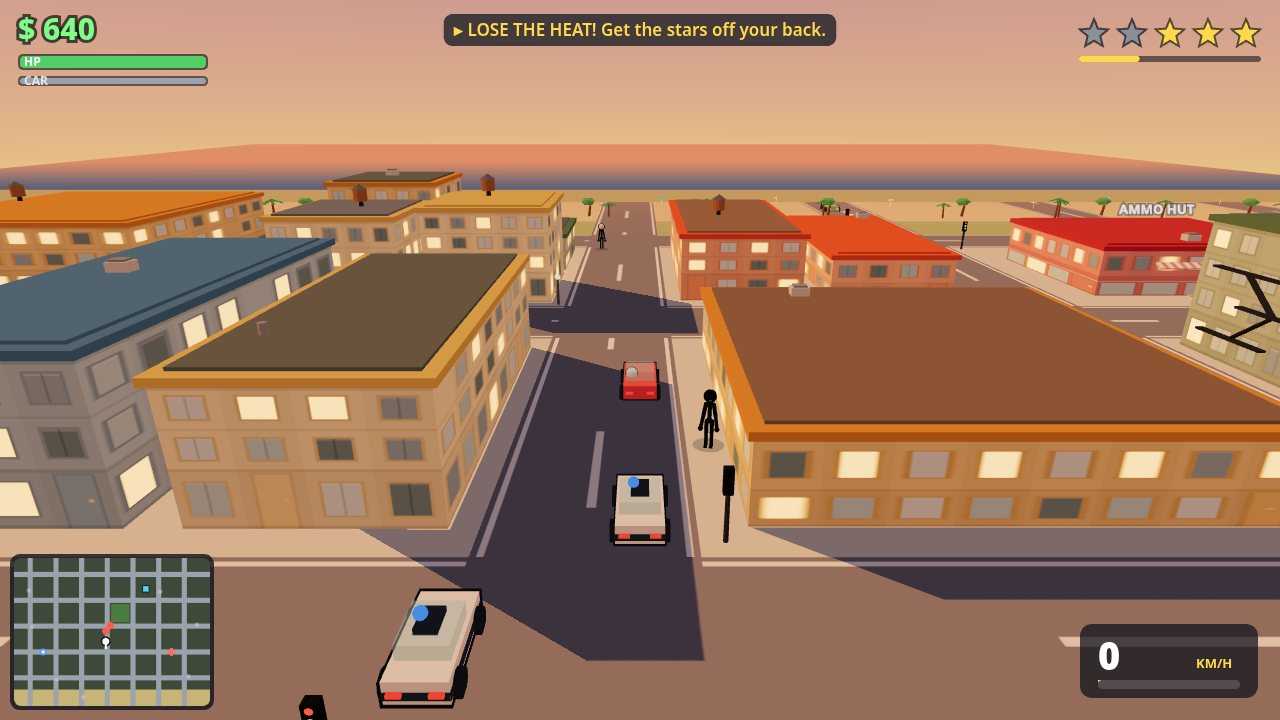
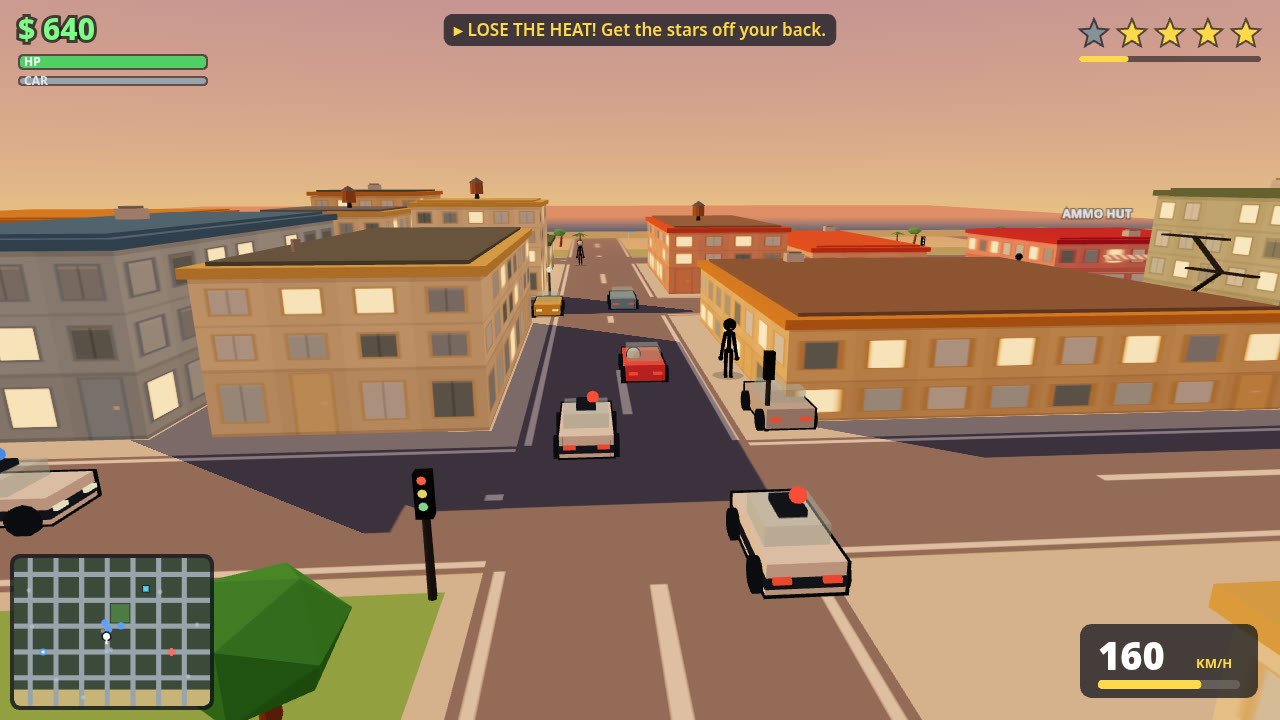
Round 28: judge-oriented screenshot recomposition + heat tuning (cooling gate 1.5s, 22/s, spawn 700-900, sight 380)

diff --git a/game/src/shots.js b/game/src/shots.js
@@ -1,15 +1,14 @@
 // Deterministic screenshot scenes, selected with ?shot=<name>&seed=1. Each scene
 // composes the world the judge should see — a police chase for the cover, a busy
-// street, a mission marker, a fistfight — then freezes movement while the figures
-// keep posing (mid-stride gaits, a punch held at the strike), so a still frame
-// still reads as alive. Movement systems do not run in shot mode; only poses,
-// markers and police lights advance.
+// street, a mission meeting, a burning wreck at golden hour — then freezes
+// movement while the figures keep posing (mid-stride gaits, held expressions),
+// so a still frame still reads as alive. Movement systems do not run in shot
+// mode; only poses, markers and police lights advance.
 import { HEAT_THRESHOLDS } from './config.js';
 import { resolveCircleCollision } from './city.js';
 import { spawnPed, syncFigure } from './people.js';
-import { spawnCar, spawnPoliceCar, syncCarMesh, updatePoliceLights } from './vehicles.js';
+import { spawnCar, spawnPoliceCar, syncCarMesh, updatePoliceLights, wreckCar, updateWrecks } from './vehicles.js';
 import { starsFor } from './police.js';
-import { spawnImpact } from './combat.js';
 
 /** Spawn a bystander for a scene, pushed out of any building it landed inside. */
 function spawnShotPed(g, opts) {
@@ -57,111 +56,130 @@ export function setupShot(g, name) {
   g.saveData.earned = 0;
 
   if (name === 'cover') {
-    // A stolen red car tears south down the avenue with two police cars behind.
-    clearArea(g, 1574, 1350, 620);
-    const hero = spawnCar(g, 'traffic', 1574, 1420, Math.PI / 2, 0xef6461);
+    // A stolen red car tears south down the avenue at four stars: two
+    // cruisers on its tail, a third cutting in from the side street,
+    // traffic scattering ahead. The camera rides low behind the chase
+    // so the pursuit fills the frame instead of surveying it.
+    clearArea(g, 1590, 1300, 640);
+    const hero = spawnCar(g, 'traffic', 1586, 1335, Math.PI / 2, 0xef6461);
     seatPlayer(g, hero);
-    const cop1 = spawnPoliceCar(g, 1574, 1245);
+    // Nothing moves in shot mode, but the speedo reads the car's speed:
+    // let it tell the chase story too.
+    hero.speed = 320;
+    const cop1 = spawnPoliceCar(g, 1622, 1215);
     cop1.angle = Math.PI / 2;
-    const cop2 = spawnPoliceCar(g, 1652, 1150);
+    cop1.speed = 320;
+    const cop2 = spawnPoliceCar(g, 1558, 1105);
     cop2.angle = Math.PI / 2;
+    cop2.speed = 320;
+    const cop3 = spawnPoliceCar(g, 1835, 1155);
+    cop3.angle = Math.PI;
+    cop3.speed = 300;
     syncCarMesh(cop1, 0);
     syncCarMesh(cop2, 0);
-    g.heat = HEAT_THRESHOLDS[2] + 30;
+    syncCarMesh(cop3, 0);
+    // Traffic sharing the avenue: one car ahead in the hero's lane, one
+    // oncoming, one parked at the kerb.
+    spawnCar(g, 'traffic', 1586, 1590, Math.PI / 2, 0x7fb2d9);
+    spawnCar(g, 'traffic', 1658, 1560, -Math.PI / 2, 0xf2c14e);
+    spawnCar(g, 'traffic', 1522, 1245, Math.PI / 2, 0xc0c6ce);
+    g.heat = HEAT_THRESHOLDS[3] + 30;
     g.stars = starsFor(g.heat);
     g.mission.active = true;
     g.mission.index = 1;
     g.mission.phase = 'escape';
-    // The camera sits behind the police cars, looking down the avenue at the
-    // stolen car ahead of them: the whole pursuit in one frame.
     g.fixedCam = {
-      pos: { x: 1574, y: 200, z: 940 },
-      look: { x: 1574, y: 10, z: 1460 },
+      pos: { x: 1620, y: 120, z: 905 },
+      look: { x: 1588, y: 12, z: 1330 },
     };
     // Bystanders on the sidewalks for life.
     spawnShotPed(g, { role: 'ped', x: 1505, y: 1330 });
     spawnShotPed(g, { role: 'ped', x: 1712, y: 1500 });
   } else if (name === 'city') {
-    // On foot at a busy crossing, mid-stride, traffic rolling past.
-    clearArea(g, 1640, 1660, 260);
-    p.x = 1640;
-    p.y = 1662;
+    // On foot at a busy crossing, mid-stride in the crowd, traffic
+    // rolling past on both roads.
+    clearArea(g, 1620, 1670, 300);
+    p.x = 1620;
+    p.y = 1680;
     p.angle = 0.5;
     p.speedNow = 150;
     p.fig.setExpression('grin');
+    // [x, y, facing, stride speed]: crossing the street, waiting at the
+    // kerb, walking the sidewalks — one passer-by close to the camera.
     const spots = [
-      [1529, 1500], [1671, 1780], [1529, 1790], [1671, 1490], [1529, 1330], [1671, 1900],
+      [1560, 1620, 0, 100], [1705, 1735, Math.PI, 95], [1529, 1500, Math.PI / 2, 95],
+      [1671, 1780, -Math.PI / 2, 95], [1671, 1490, -Math.PI / 2, 95],
+      [1690, 1605, -2.6, 90], [1500, 1690, Math.PI / 2, 95],
+      [1745, 1560, -Math.PI / 2, 95], [1500, 1560, Math.PI / 2, 95], [1745, 1830, -Math.PI / 2, 95],
     ];
-    for (const [x, y] of spots) {
+    for (const [x, y, angle, speed] of spots) {
       const ped = spawnShotPed(g, { role: 'ped', x, y });
-      ped.speedNow = 95;
-      ped.angle = g.rng.range(0, Math.PI * 2);
+      ped.speedNow = speed;
+      ped.angle = angle;
     }
+    // Traffic: two cars on the avenue, one crossing on the street.
+    spawnCar(g, 'traffic', 1548, 1440, Math.PI / 2, 0xf2c14e);
+    spawnCar(g, 'traffic', 1658, 1420, -Math.PI / 2, 0x9fd356);
+    spawnCar(g, 'traffic', 1330, 1568, 0, 0xc0c6ce);
     // The camera stays over the avenue corridor so no building blocks the view.
     g.fixedCam = {
-      pos: { x: 1562, y: 98, z: 1852 },
-      look: { x: 1648, y: 18, z: 1652 },
+      pos: { x: 1540, y: 86, z: 1895 },
+      look: { x: 1635, y: 16, z: 1665 },
     };
   } else if (name === 'mission') {
-    // Walking the last stretch to the pier warehouse, the gold marker beam ahead.
-    // The approach is along the street south of the warehouse, camera behind.
-    const door = g.city.landmarks.pier;
-    clearArea(g, door.x - 60, door.y - 30, 320);
+    // Mission 2, first step: the hero walks the last stretch to Club
+    // Neon, where Shade is posted at the door — the objective text,
+    // the gold marker beam and Shade's name label all in one frame.
+    // Shade stands exactly where acceptMission posts him.
+    const club = g.city.landmarks.club;
+    clearArea(g, club.x + 10, club.y + 10, 300);
     g.mission.active = true;
-    g.mission.index = 0;
-    g.mission.phase = 'toWarehouse';
-    p.x = door.x - 70;
-    p.y = door.y + 72;
-    p.angle = Math.atan2(door.y - p.y, door.x - p.x);
+    g.mission.index = 1;
+    g.mission.phase = 'toClub';
+    const shade = spawnPed(g, { role: 'shade', x: club.x + 24, y: club.y + 10, name: 'SHADE' });
+    shade.fig.setExpression('angry');
+    shade.state = 'idle';
+    shade.homeX = shade.x;
+    shade.homeY = shade.y;
+    // Name labels are toggled by updatePeds, which shot mode never
+    // runs; the hero is at conversational range, so hold it on.
+    shade.label.visible = true;
+    g.mission.shade = shade;
+    p.x = club.x - 88;
+    p.y = club.y + 28;
+    p.angle = Math.atan2(shade.y - p.y, shade.x - p.x);
     p.speedNow = 140;
     p.fig.setExpression('neutral');
-    const guard = spawnShotPed(g, { role: 'ped', x: door.x + 80, y: door.y + 26 });
-    guard.speedNow = 0;
+    // Life around the club: a car parked along the street east of the
+    // corner, a bystander drifting past the door.
+    spawnCar(g, 'traffic', club.x + 205, club.y + 82, 0, 0x8e6fc8);
+    const passer = spawnShotPed(g, { role: 'ped', x: club.x + 105, y: club.y - 25 });
+    passer.speedNow = 95;
+    passer.angle = Math.PI;
     g.fixedCam = {
-      pos: { x: door.x - 340, y: 110, z: door.y + 250 },
-      look: { x: door.x - 30, y: 22, z: door.y + 20 },
+      pos: { x: club.x - 215, y: 82, z: club.y + 130 },
+      look: { x: club.x + 35, y: 24, z: club.y + 5 },
     };
-  } else if (name === 'fight') {
-    // A fistfight on the open intersection: the hero's cross landing at
-    // full extension, a rival caught in its own wind-up, another rival
-    // closing in. The hero is posed with posePunch: the fight used to
-    // loop a real punch on a timer, and a capture could land in the
-    // idle gap between swings — the one still in the dossier showed two
-    // men standing still. The phase is frozen at the strike (46% of the
-    // 0.44 s punch), so the frame is always the frame of impact.
-    clearArea(g, 1590, 1155, 340);
-    p.x = 1568;
-    p.y = 1150;
-    p.angle = 0.22; // squared up on the rival, not at empty road
+  } else if (name === 'beauty') {
+    // Golden hour on the coast road by the pier: a wreck still burning
+    // in the foreground, the hero standing over it, his own car parked
+    // behind him and the warehouse across the road. The fire is raised
+    // once, here at g.time = 0, and shot mode never advances it — the
+    // flames hold this exact pose in every capture.
+    const pier = g.city.landmarks.pier;
+    clearArea(g, pier.x - 130, pier.y + 90, 330);
+    const wreck = spawnCar(g, 'traffic', pier.x - 125, pier.y + 80, 0.9, 0x707880);
+    wreckCar(g, wreck);
+    updateWrecks(g, 0.5);
+    spawnCar(g, 'traffic', pier.x - 255, pier.y + 95, 0, 0xef6461);
+    p.x = pier.x - 145;
+    p.y = pier.y + 125;
+    p.angle = Math.atan2((pier.y + 80) - p.y, (pier.x - 125) - p.x);
     p.speedNow = 0;
-    p.fig.setExpression('angry');
-    p.fig.posePunch(0.46, 'R');
-    const rival = spawnPed(g, { role: 'rival', x: 1586, y: 1157, name: 'COLLECTOR' });
-    rival.angle = Math.PI - 0.08;
-    rival.speedNow = 0;
-    rival.fig.setExpression('angry');
-    rival.fig.posePunch(0.16, 'L'); // cocked, a beat from throwing
-    const rival2 = spawnPed(g, { role: 'rival', x: 1610, y: 1180, name: 'COLLECTOR' });
-    rival2.angle = Math.atan2(1150 - 1180, 1568 - 1610);
-    rival2.speedNow = 150;
-    rival2.fig.setExpression('angry');
-    // Frame it as Bruno's collection job so the HUD tells the same story, and
-    // register the rivals so the mission logic leaves the scene alone.
-    g.mission.active = true;
-    g.mission.index = 2;
-    g.mission.phase = 'fight';
-    g.mission.shopStep = 0;
-    g.mission.rivals = [rival, rival2];
-    // The burst of the hit, frozen: spawnImpact is only ever advanced by the
-    // live combat loop, so in a still it stays at its first frame. It sits
-    // just short of the rival's jaw, facing back down the punch.
-    spawnImpact(g, 1593, 1158, p.angle, 27.5);
-    // A side-on 3/4 of the exchange, from just off the fighters' front line:
-    // the hero reads left of frame, the rival right, and the punch crosses
-    // between them instead of the camera looking down the hero's shoulder.
+    p.fig.setExpression('neutral');
     g.fixedCam = {
-      pos: { x: 1630, y: 44, z: 1100 },
-      look: { x: 1588, y: 22, z: 1155 },
+      pos: { x: pier.x - 235, y: 50, z: pier.y + 215 },
+      look: { x: pier.x - 105, y: 22, z: pier.y + 70 },
     };
   }
 }

diff --git a/game/src/police.js b/game/src/police.js
@@ -49,11 +49,11 @@ export function addHeat(g, amount, x, y, { force = false } = {}) {
   g.stars = stars;
 }
 
-/** Pick a road point 520–720px from the player for a police spawn. */
+/** Pick a road point 700–900px from the player for a police spawn. */
 function spawnPoint(g) {
   for (let tries = 0; tries < 10; tries += 1) {
     const angle = g.rng.range(0, Math.PI * 2);
-    const dist = g.rng.range(520, 720);
+    const dist = g.rng.range(700, 900);
     const x = g.player.x + Math.cos(angle) * dist;
     const y = g.player.y + Math.sin(angle) * dist;
     if (x < 60 || y < 60 || x > 3300 || y > 2460) continue;
@@ -207,11 +207,11 @@ export function updatePolice(g, dt, time) {
   // `cooling` is the HUD's "losing them" signal: it is true exactly while
   // heat is draining, so the blinking stars never lie about the state.
   g.cooling = false;
-  if (nearest > 430) {
+  if (nearest > 380) {
     g.coolT += dt;
-    if (g.coolT > 3.2 && g.heat > 0) {
+    if (g.coolT > 1.5 && g.heat > 0) {
       const prevStars = g.stars;
-      g.heat = Math.max(0, g.heat - 13 * dt);
+      g.heat = Math.max(0, g.heat - 22 * dt);
       g.stars = starsFor(g.heat);
       g.cooling = true;
       // A chase ended by stealth is an event worth announcing: fire at

diff --git a/game/src/people.js b/game/src/people.js
@@ -700,7 +700,7 @@ export function updatePeds(g, dt, time) {
         const d = Math.hypot(target.x - ped.x, target.y - ped.y);
         // Officers stand down once the heat is gone. A far officer is
         // already out of the story — the cooling clear can only happen
-        // with every unit >430 away — and simply leaves the world. A
+        // with every unit >380 away — and simply leaves the world. A
         // NEAR officer walks back to his cruiser in the 'leave' state:
         // the instant clears (Spray 'n Go paint, the fixer) can zero
         // the heat with him at the player's elbow. (He used to be
